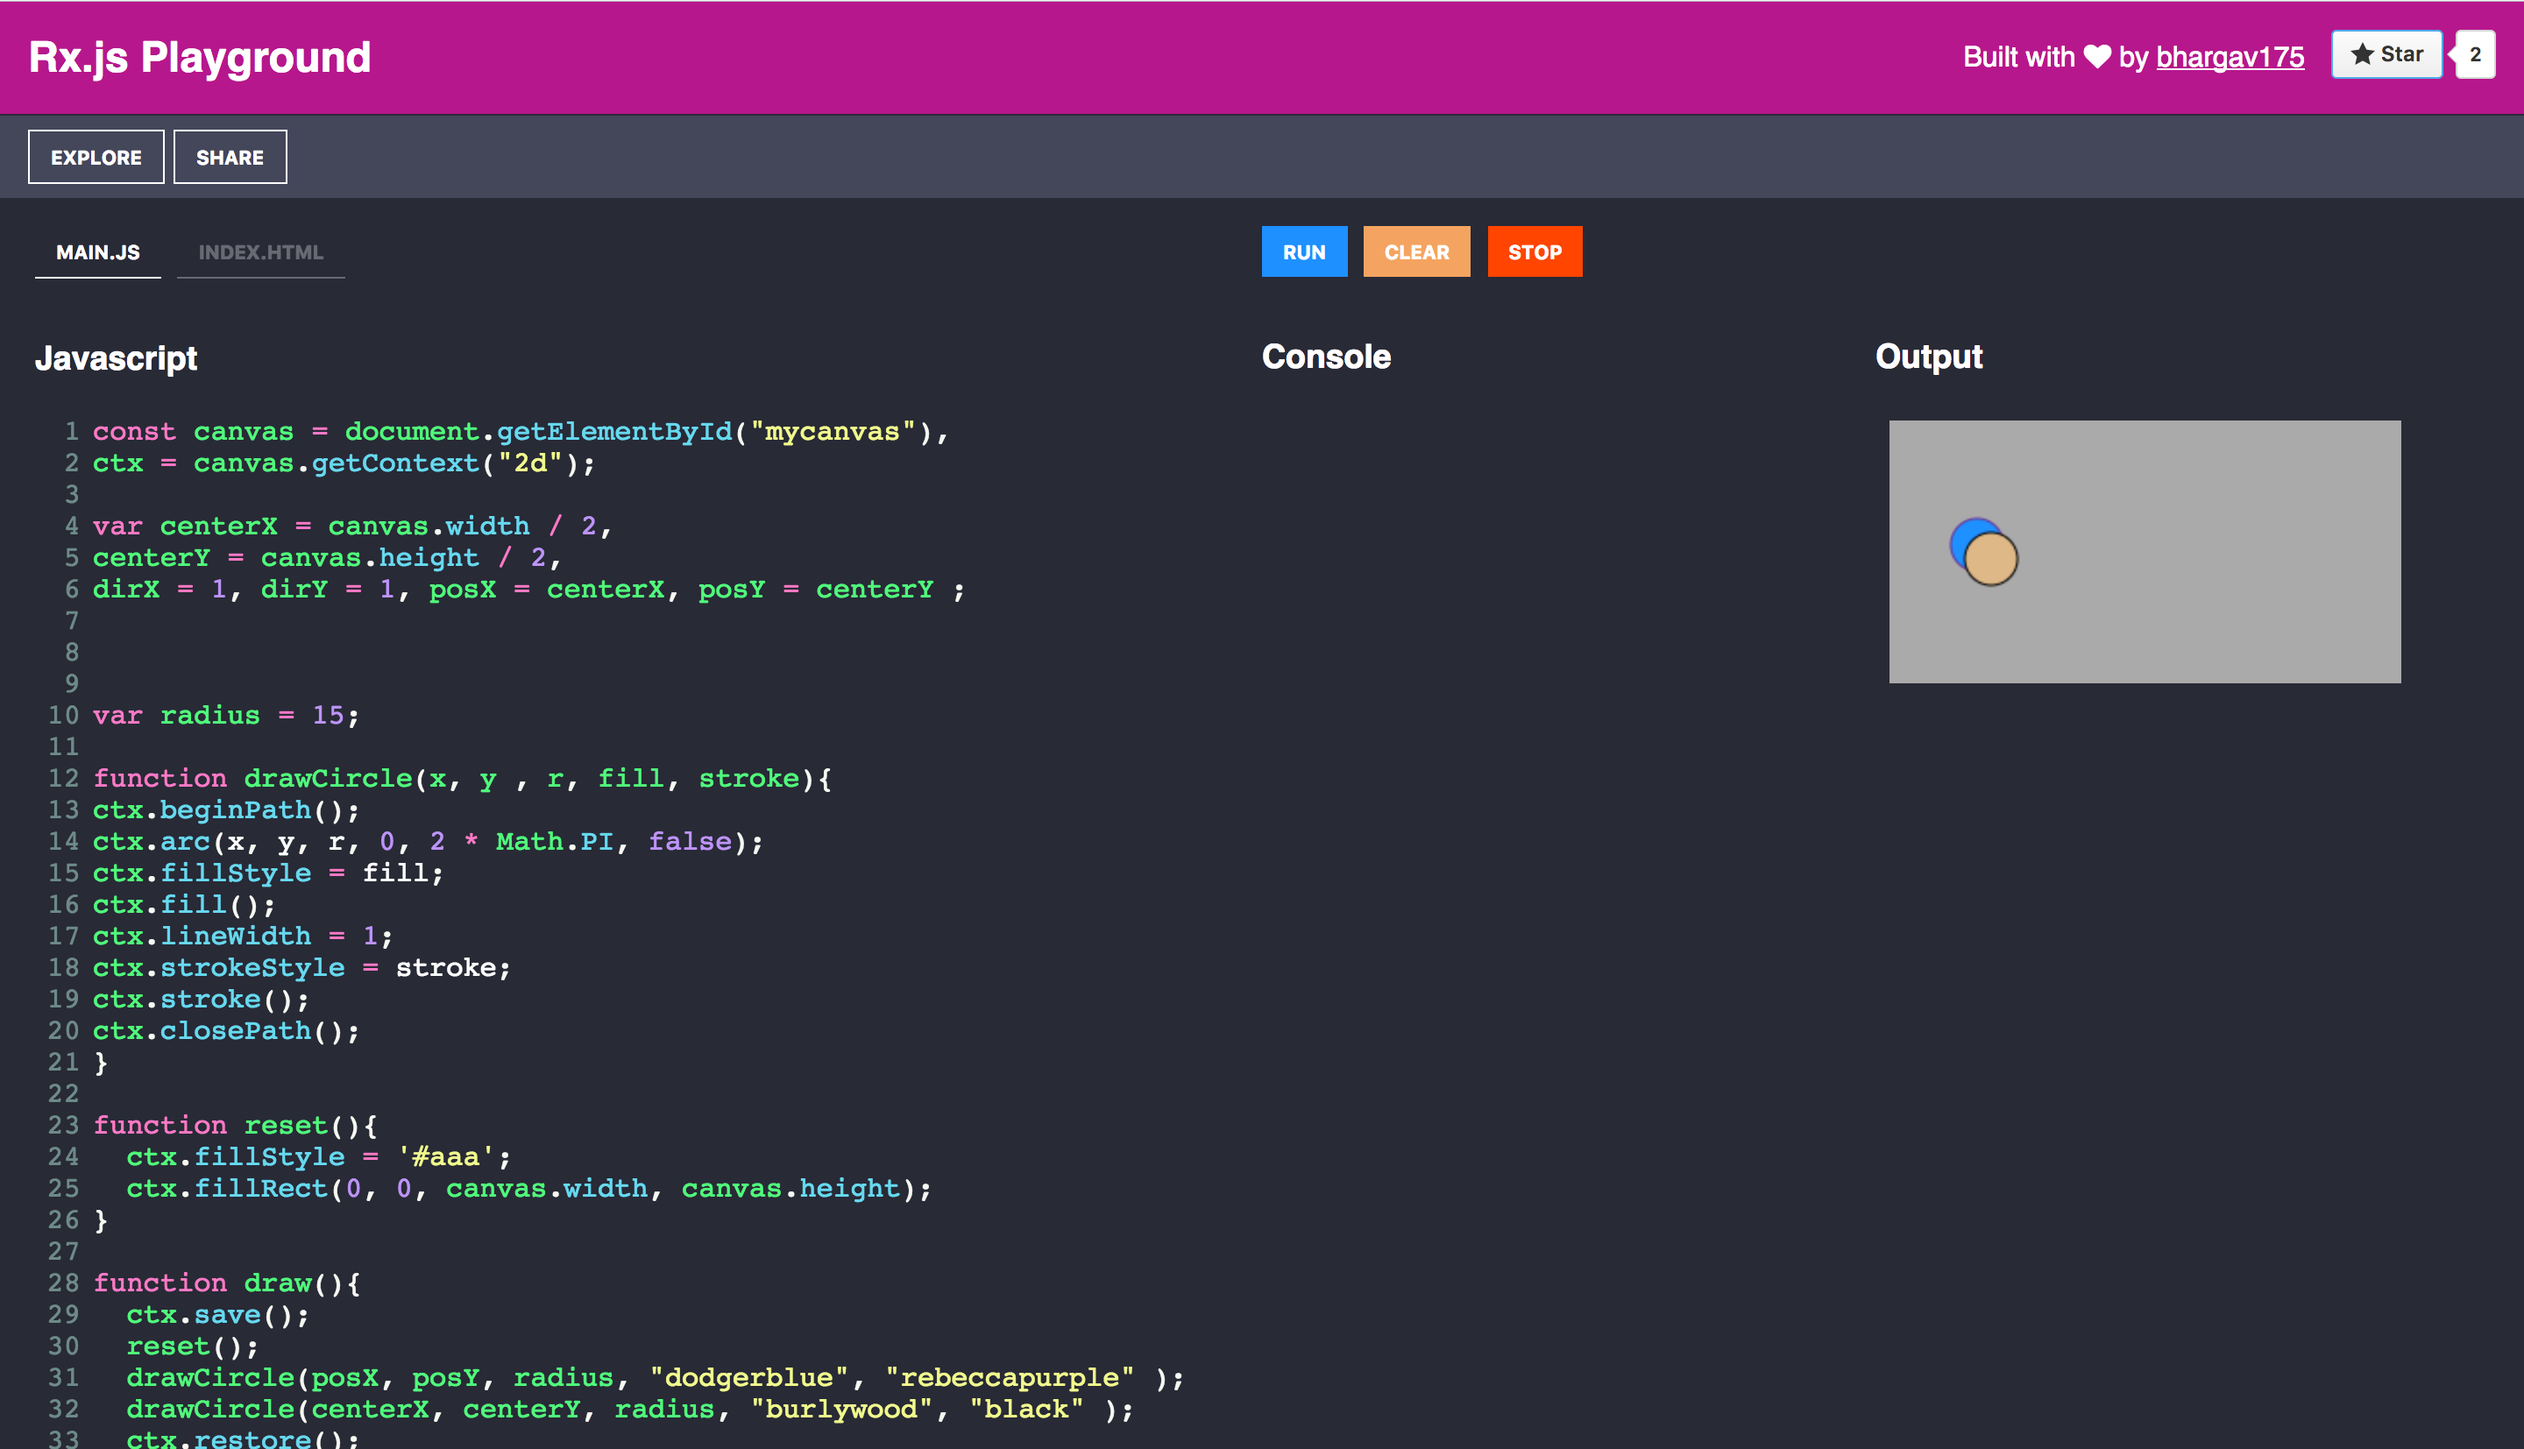
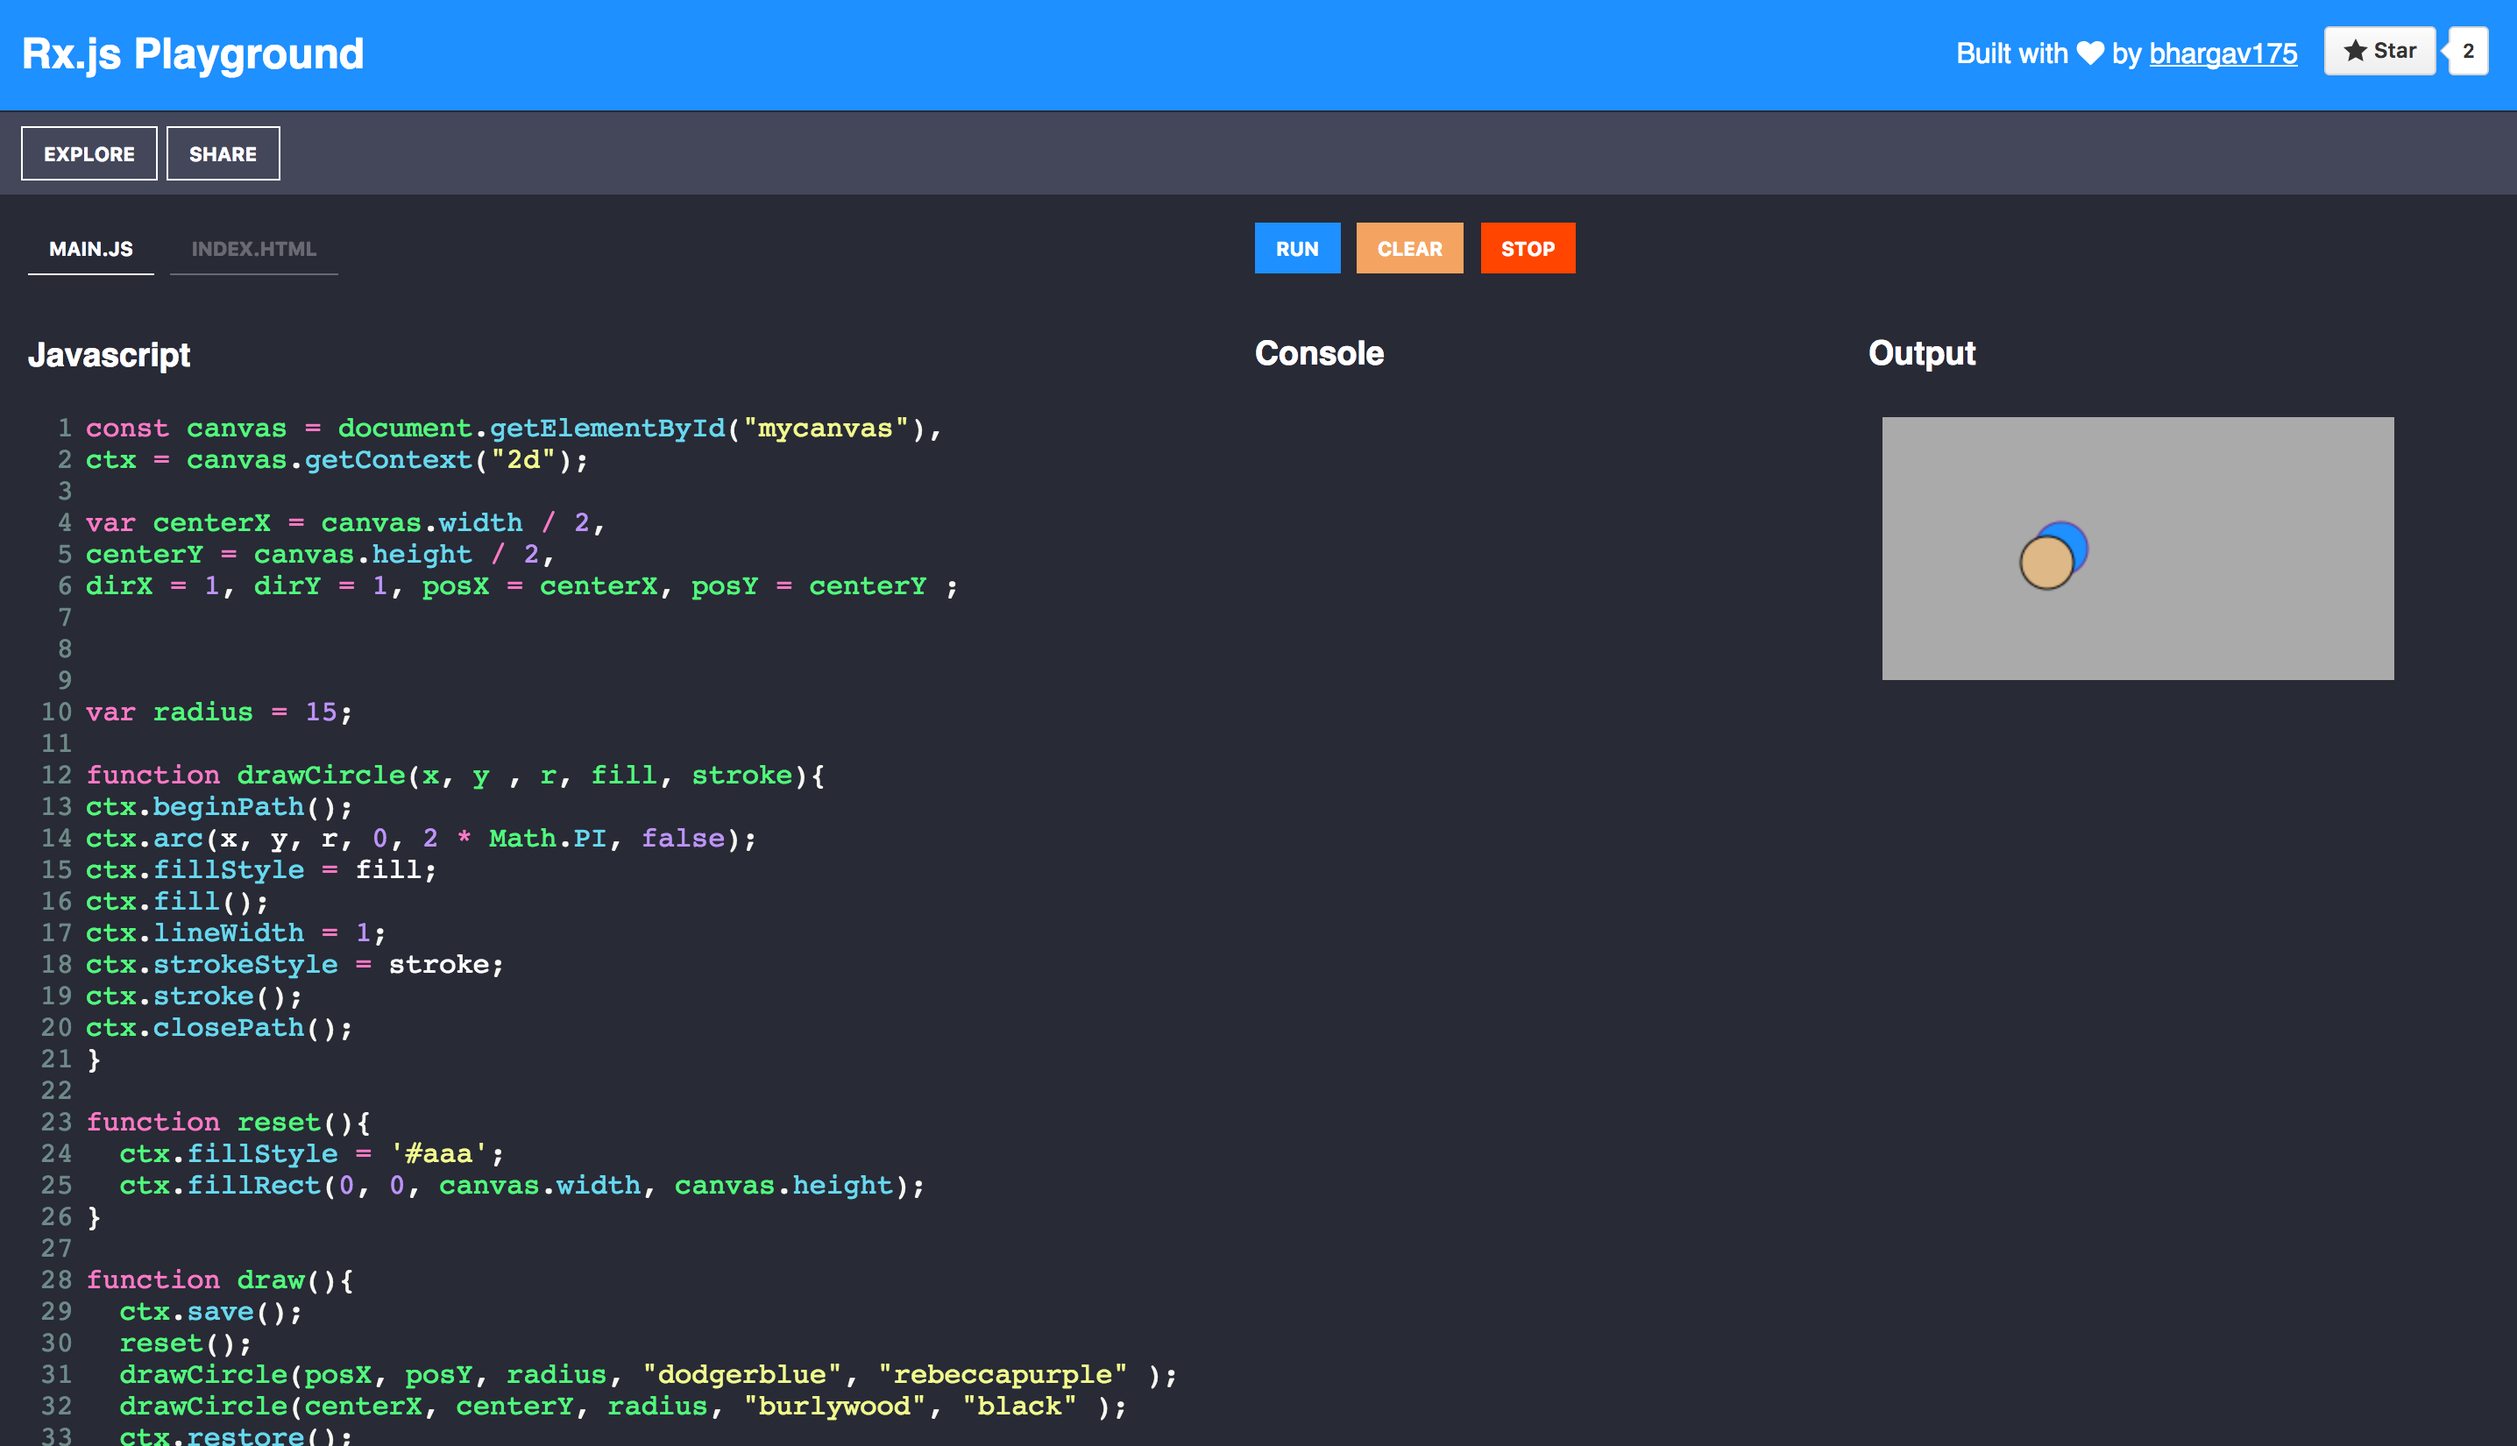
Update screenshot

diff --git a/dist/styles.css b/dist/styles.css
@@ -70,7 +70,7 @@ button {
           flex-direction: column; }
 
 #header {
-  background: #B7178C;
+  background: dodgerblue;
   overflow: hidden;
   color: white;
   padding: 16px;

diff --git a/src/sass/index.scss b/src/sass/index.scss
@@ -54,7 +54,7 @@ button{
 }
 
 #header{
-  background : #B7178C;
+  background : dodgerblue;
   overflow: hidden;
   color : white;
   padding: 16px;
